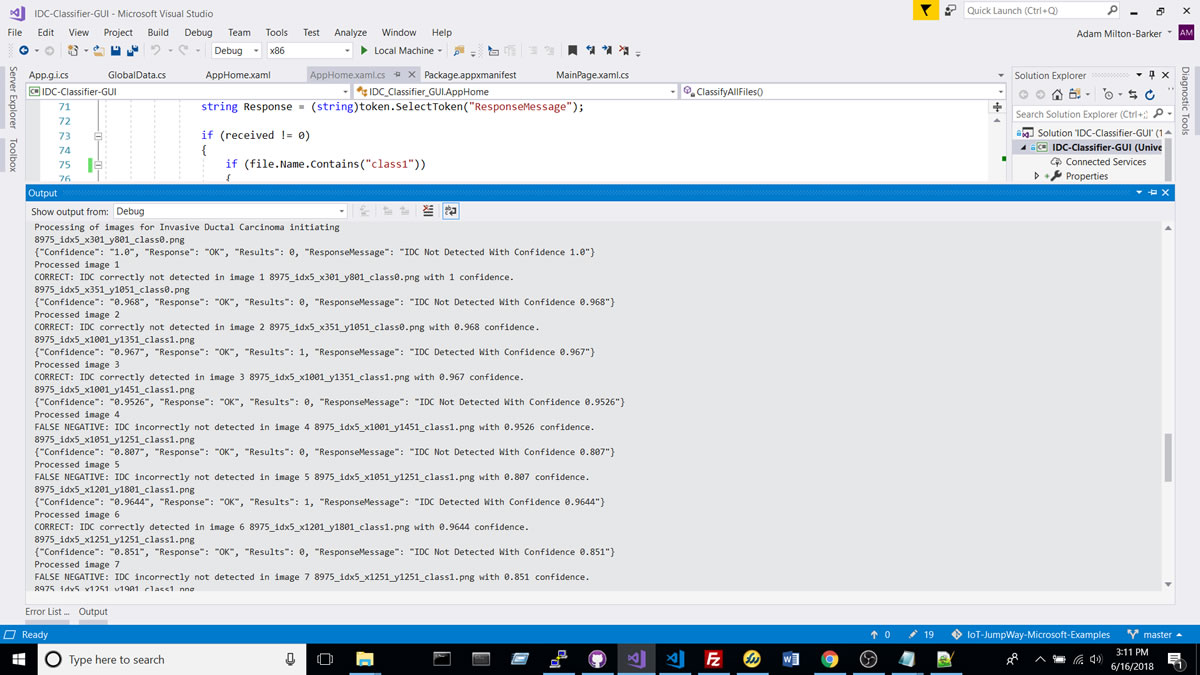
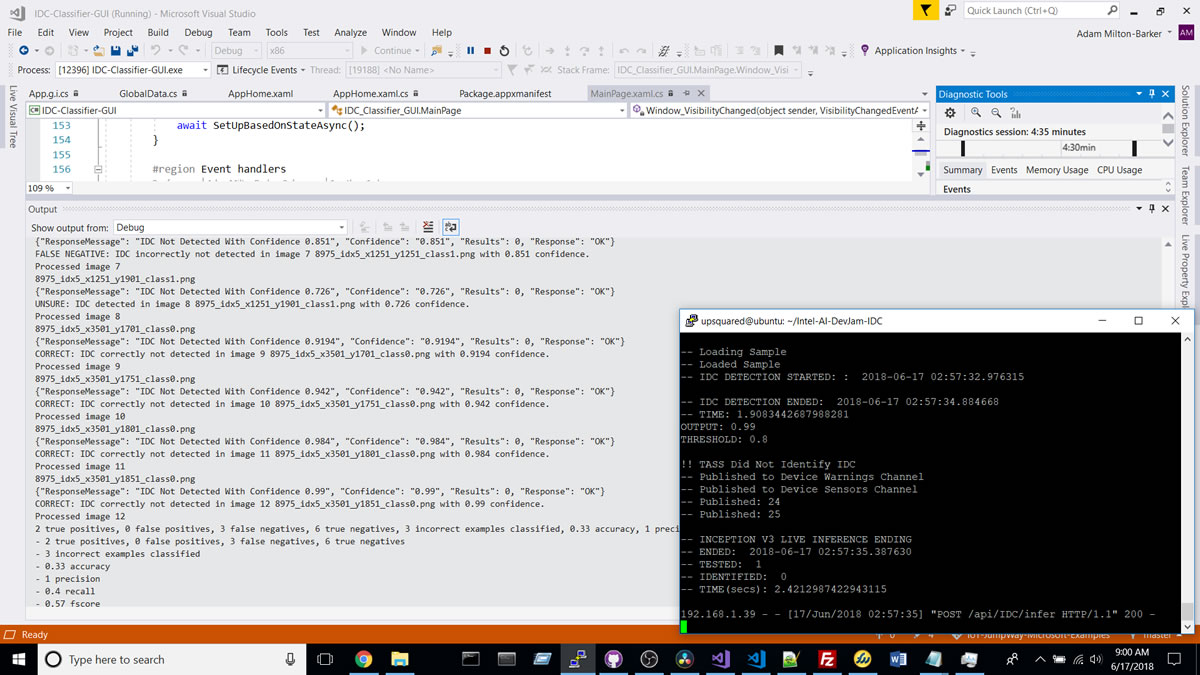
[Intel-AI-DevJam-IDC] Updated IDC-Classifier-GUI results and image

diff --git a/Intel-AI-DevJam-IDC/IDC-Classifier-GUI/README.md b/Intel-AI-DevJam-IDC/IDC-Classifier-GUI/README.md
@@ -78,9 +78,9 @@ Click on the **Classify All Images** button to begin the classification process.
 
 As mentioned the images were purposely chosen to challenge the network on false negatives and positives. Ideally there would be 0 of either, but the best case scenario with misclassification is false positives, as it would be better to incorrectly predict non cancerous as cancercerous than it would be to predict cancerous as non cancerous.
 
-![Testing The Universal Windows Application](images/output.jpg)
-
 The application has been set up to detect if a test classification is correct by checking for a string in file name to compare against the prediction. In this applications case, it will check negative predictions to see if the string **class0** exists in the file name, and for positive predictions it will check for **class1**, this felps to determine whether they are false negatives or false positives.
+
+![Testing The Universal Windows Application](images/output.jpg)
 
 The logs of the output can be viewed in the output area of Visual Studio. Here it will display the info of each image processed, the prediction and whether it is false positive/false negative or correct/incorrect. What I hoped not see, but expected to see, was false negatives as I had chosen a testing dataset that I believed would possibly trick the classification model. 
 
@@ -90,32 +90,49 @@ The console logs of my testing below show that the IDC Classifier identified 4 o
 Processing of images for Invasive Ductal Carcinoma initiating
 
 8975_idx5_x301_y801_class0.png
-{"Confidence": "1.0", "Response": "OK", "Results": 0, "ResponseMessage": "IDC Not Detected With Confidence 1.0"}
-Processed image 1
+{"ResponseMessage": "IDC Not Detected With Confidence 1.0", "Confidence": "1.0", "Results": 0, "Response": "OK"}
 CORRECT: IDC correctly not detected in image 1 8975_idx5_x301_y801_class0.png with 1 confidence.
+Processed image 1
+
 8975_idx5_x351_y1051_class0.png
-{"Confidence": "0.968", "Response": "OK", "Results": 0, "ResponseMessage": "IDC Not Detected With Confidence 0.968"}
-Processed image 2
+{"ResponseMessage": "IDC Not Detected With Confidence 0.968", "Confidence": "0.968", "Results": 0, "Response": "OK"}
 CORRECT: IDC correctly not detected in image 2 8975_idx5_x351_y1051_class0.png with 0.968 confidence.
+Processed image 2
+
 8975_idx5_x1001_y1351_class1.png
-{"Confidence": "0.967", "Response": "OK", "Results": 1, "ResponseMessage": "IDC Detected With Confidence 0.967"}
+{"ResponseMessage": "IDC Detected With Confidence 0.967", "Confidence": "0.967", "Results": 1, "Response": "OK"}
+CORRECT: IDC correctly detected in image 3 8975_idx5_x1001_y1351_class1.png with 0.967 confidence.
 Processed image 3
---------
+
+8975_idx5_x1001_y1451_class1.png
+{"ResponseMessage": "IDC Not Detected With Confidence 0.9526", "Confidence": "0.9526", "Results": 0, "Response": "OK"}
 FALSE NEGATIVE: IDC incorrectly not detected in image 4 8975_idx5_x1001_y1451_class1.png with 0.9526 confidence.
-8975_idx5_x1051_y1251_class1.png
-{"Confidence": "0.807", "Response": "OK", "Results": 0, "ResponseMessage": "IDC Not Detected With Confidence 0.807"}
-Processed image 5
+Processed image 4
+
+------------------------------------------------
+
+8975_idx5_x3501_y1751_class0.png
+{"ResponseMessage": "IDC Not Detected With Confidence 0.942", "Confidence": "0.942", "Results": 0, "Response": "OK"}
 CORRECT: IDC correctly not detected in image 10 8975_idx5_x3501_y1751_class0.png with 0.942 confidence.
+Processed image 10
+
 8975_idx5_x3501_y1801_class0.png
-{"Confidence": "0.984", "Response": "OK", "Results": 0, "ResponseMessage": "IDC Not Detected With Confidence 0.984"}
-Processed image 11
+{"ResponseMessage": "IDC Not Detected With Confidence 0.984", "Confidence": "0.984", "Results": 0, "Response": "OK"}
 CORRECT: IDC correctly not detected in image 11 8975_idx5_x3501_y1801_class0.png with 0.984 confidence.
+Processed image 11
+
 8975_idx5_x3501_y1851_class0.png
-{"Confidence": "0.99", "Response": "OK", "Results": 0, "ResponseMessage": "IDC Not Detected With Confidence 0.99"}
+{"ResponseMessage": "IDC Not Detected With Confidence 0.99", "Confidence": "0.99", "Results": 0, "Response": "OK"}
+CORRECT: IDC correctly not detected in image 12 8975_idx5_x3501_y1851_class0.png with 0.99 confidence.
 Processed image 12
 
-CORRECT: IDC correctly not detected in image 12 8975_idx5_x3501_y1851_class0.png with 0.99 confidence.
-2 positive examples detected out of 6 positive & 6 negative examples. 4 incorrect, 0 false positives and 4 false negatives.
+2 true positives, 0 false positives, 3 false negatives, 6 true negatives, 3 incorrect examples classified, 0.33 accuracy, 1 precision, 0.4 recall, 0.57 fscore
+- 2 true positives, 0 false positives, 3 false negatives, 6 true negatives
+- 3 incorrect examples classified
+- 0.33 accuracy
+- 1 precision
+- 0.4 recall
+- 0.57 fscore
 ```
 
 ![Testing The Universal Windows Application](images/Opposing-Classes.jpg)
